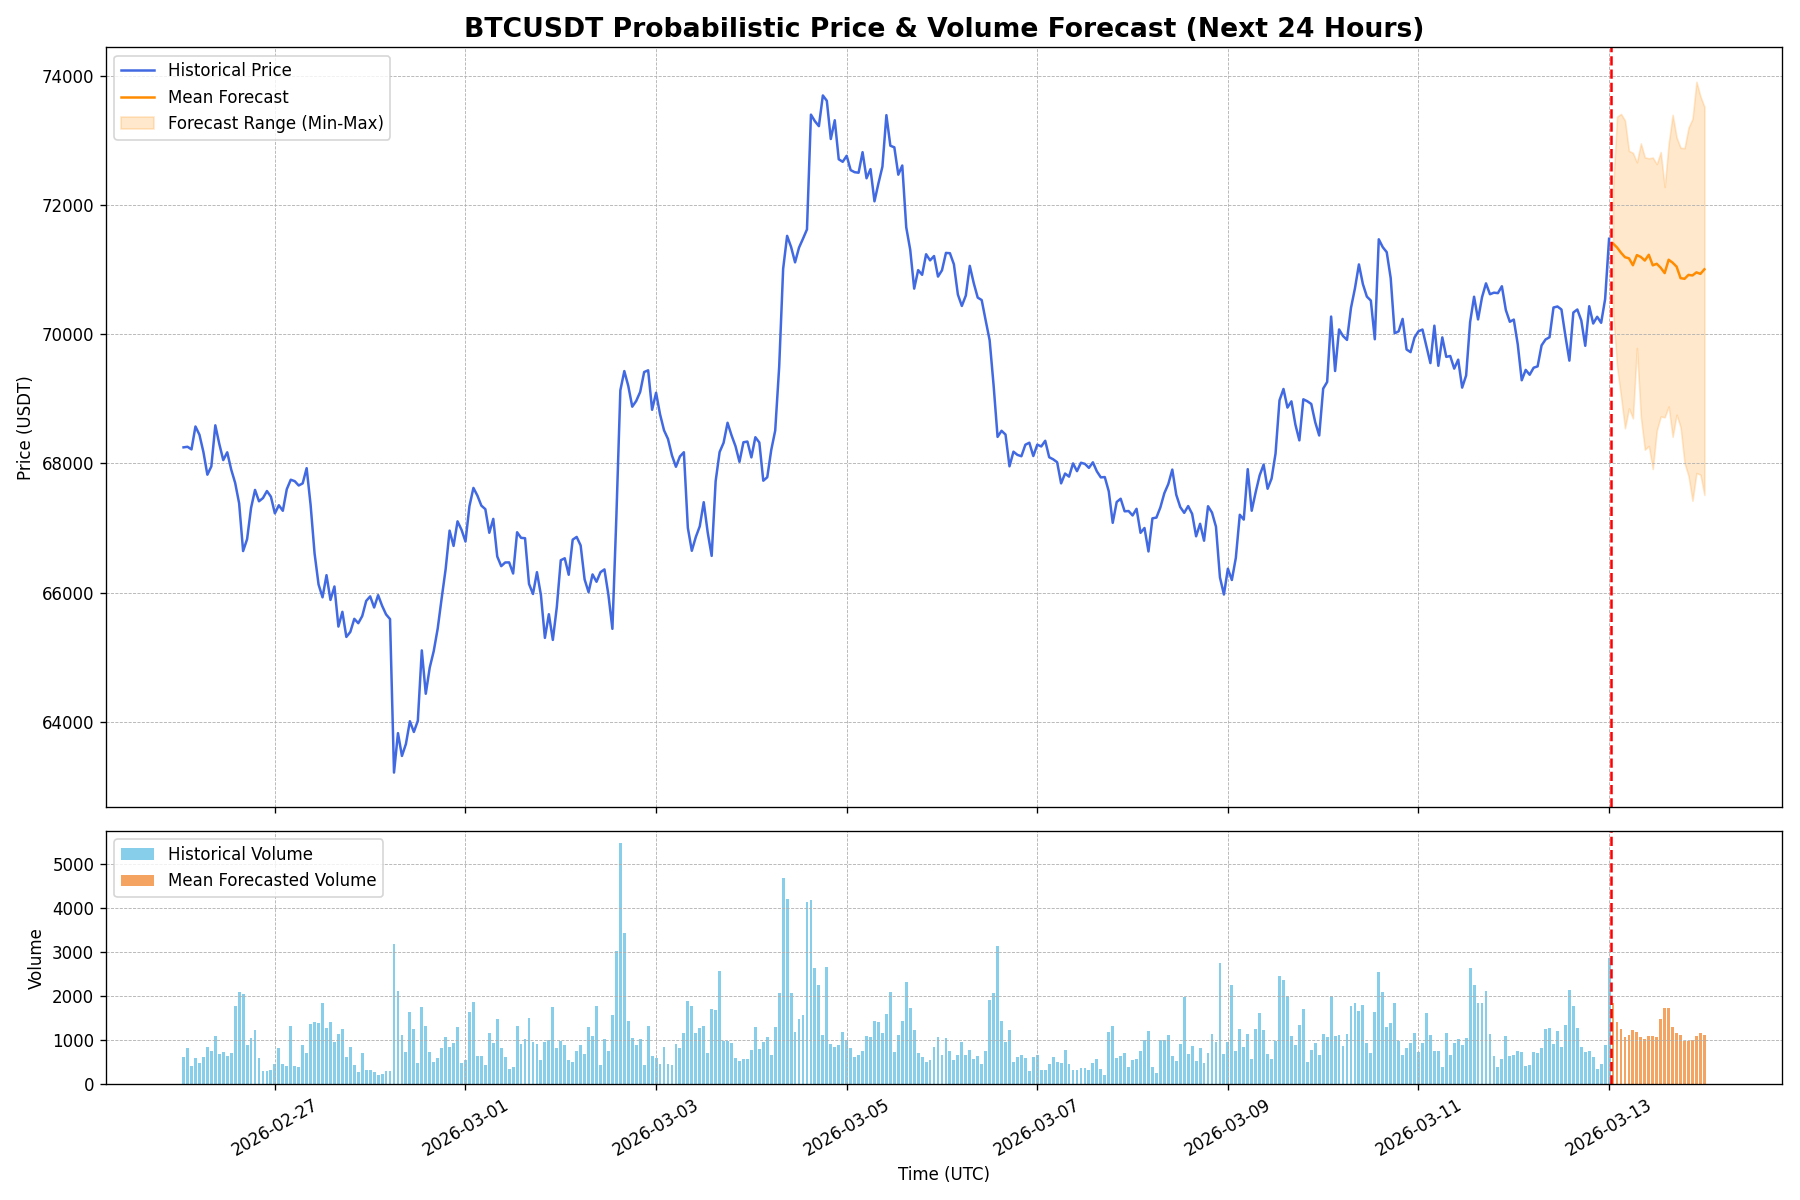
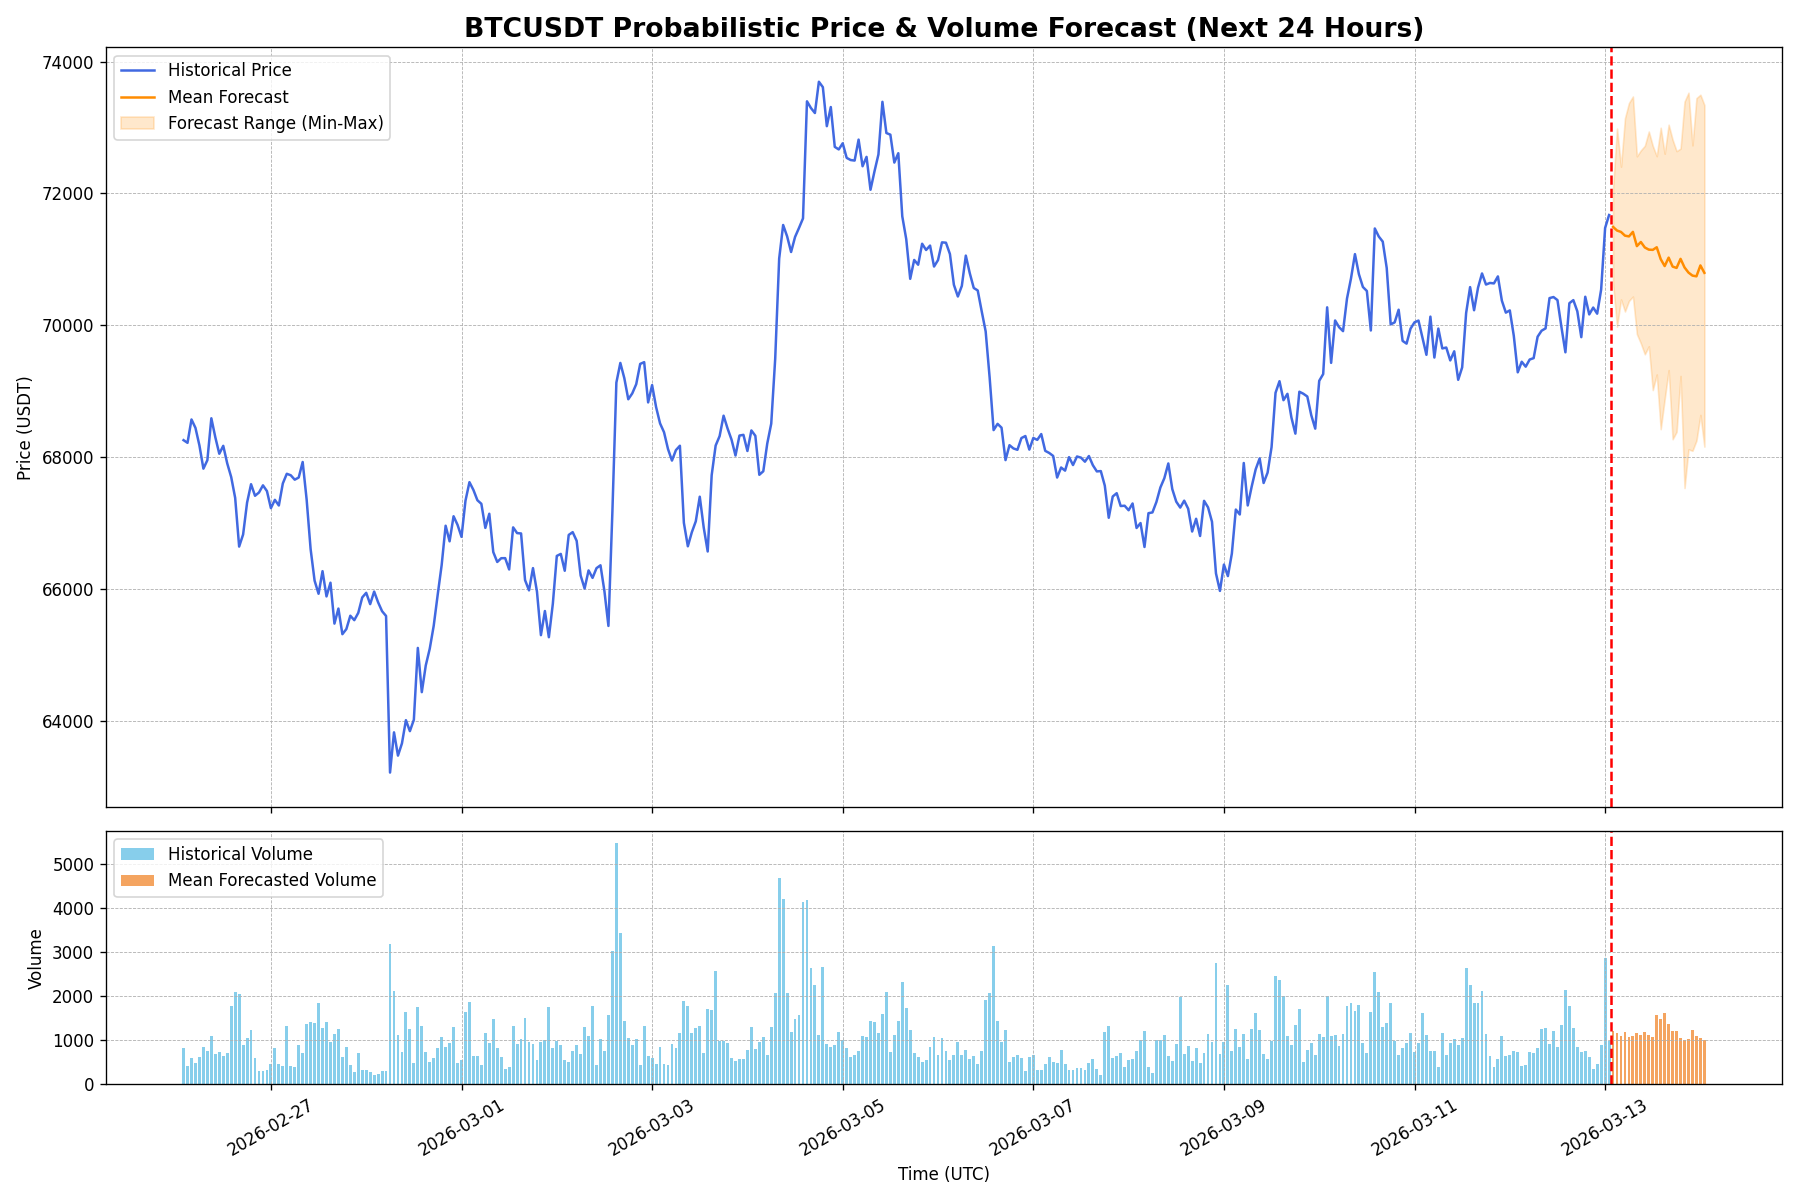
Auto-update forecast for 2026-03-13 02:00 UTC

diff --git a/index.html b/index.html
@@ -22,19 +22,19 @@
         <section id="live-dashboard">
             <h2>Live BTC/USDT Forecast Dashboard</h2>
             <div class="metadata">
-                <span>Last Updated (UTC): <strong id="update-time">2026-03-13 01:00:25</strong></span>
+                <span>Last Updated (UTC): <strong id="update-time">2026-03-13 02:00:25</strong></span>
                 <span>Data Source: Binance | Interval: 1-Hour</span>
             </div>
 
             <div class="metrics-container">
                 <div class="metric-card">
                     <h3>Upside Probability (Next 24h)</h3>
-                    <p class="metric-value" id="upside-prob">26.7%</p>
+                    <p class="metric-value" id="upside-prob">20.0%</p>
                     <div class="metric-desc">The model's confidence that the price in 24 hours will be higher than the last known price.</div>
                 </div>
                 <div class="metric-card">
                     <h3>Volatility Amplification (Next 24h)</h3>
-                    <p class="metric-value" id="vol-amp-prob">76.7%</p>
+                    <p class="metric-value" id="vol-amp-prob">80.0%</p>
                     <div class="metric-desc">The probability that predicted volatility over the next 24h will exceed recent historical volatility.</div>
                 </div>
             </div>
